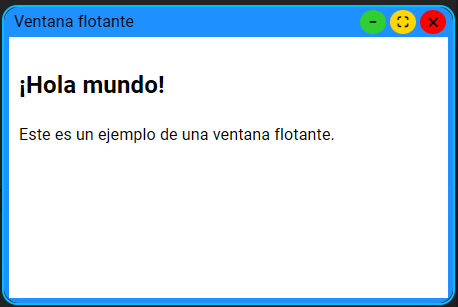
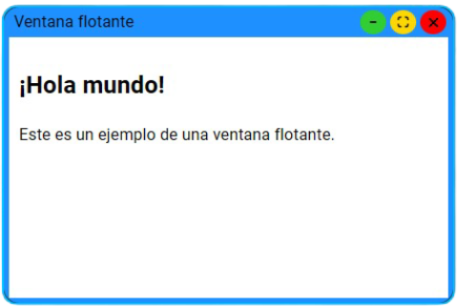
imgs theme add

Changed region(s): [[0.0, 0.0, 1.0, 1.0]]

diff --git a/src/esquema/contenido.jsx b/src/esquema/contenido.jsx
@@ -313,8 +313,31 @@ const _CONTENIDO_VENTANA_FLOTANTE_ = new GenerarContenidoLibreria({
                                         <Code>{`
                                             VENTANA_FLOTANTE.ROOT_PROPIEDADES({ theme: "${tema}" });
                                         `}</Code>
-                                        <img src={`${thisObj.githubPage}/src/img/temas/${tema}.png`} alt={tema} />
-                                        <div style={{ padding: "60px" }} align="center">
+                                        <div
+                                            style={{
+                                                padding: "60px",
+
+                                                display: "flex",
+                                                justifyContent: "center",
+                                                alignItems: "center",
+                                                flexWrap: "wrap",
+                                                gap: "20px",
+
+                                                ...(() => {
+                                                    const retorno = {};
+
+                                                    switch (tema) {
+                                                        case "light":
+                                                        case "glasslight":
+                                                            retorno.backgroundColor = "white";
+                                                            break;
+                                                    }
+
+                                                    return retorno;
+                                                })()
+                                            }}
+                                        >
+                                            <img src={`${thisObj.githubPage}/src/img/temas/${tema}.png`} alt={tema} />
                                             <Button
                                                 variant="contained"
                                                 onClick={() => {
